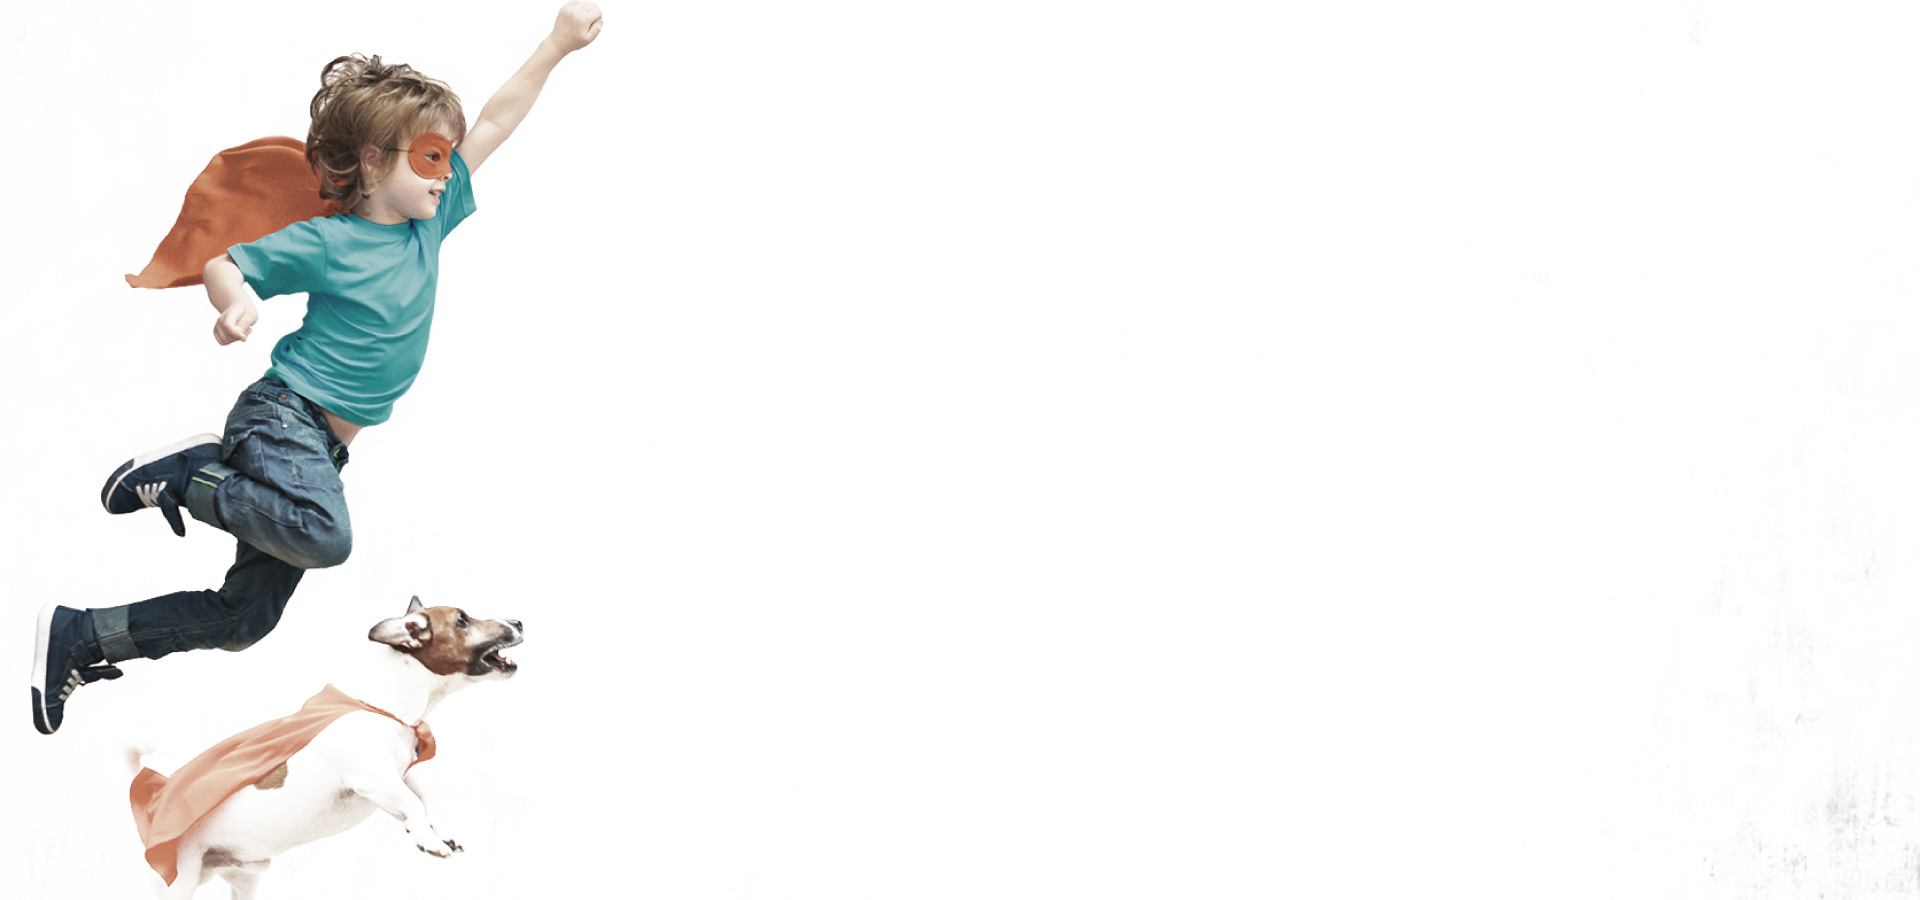
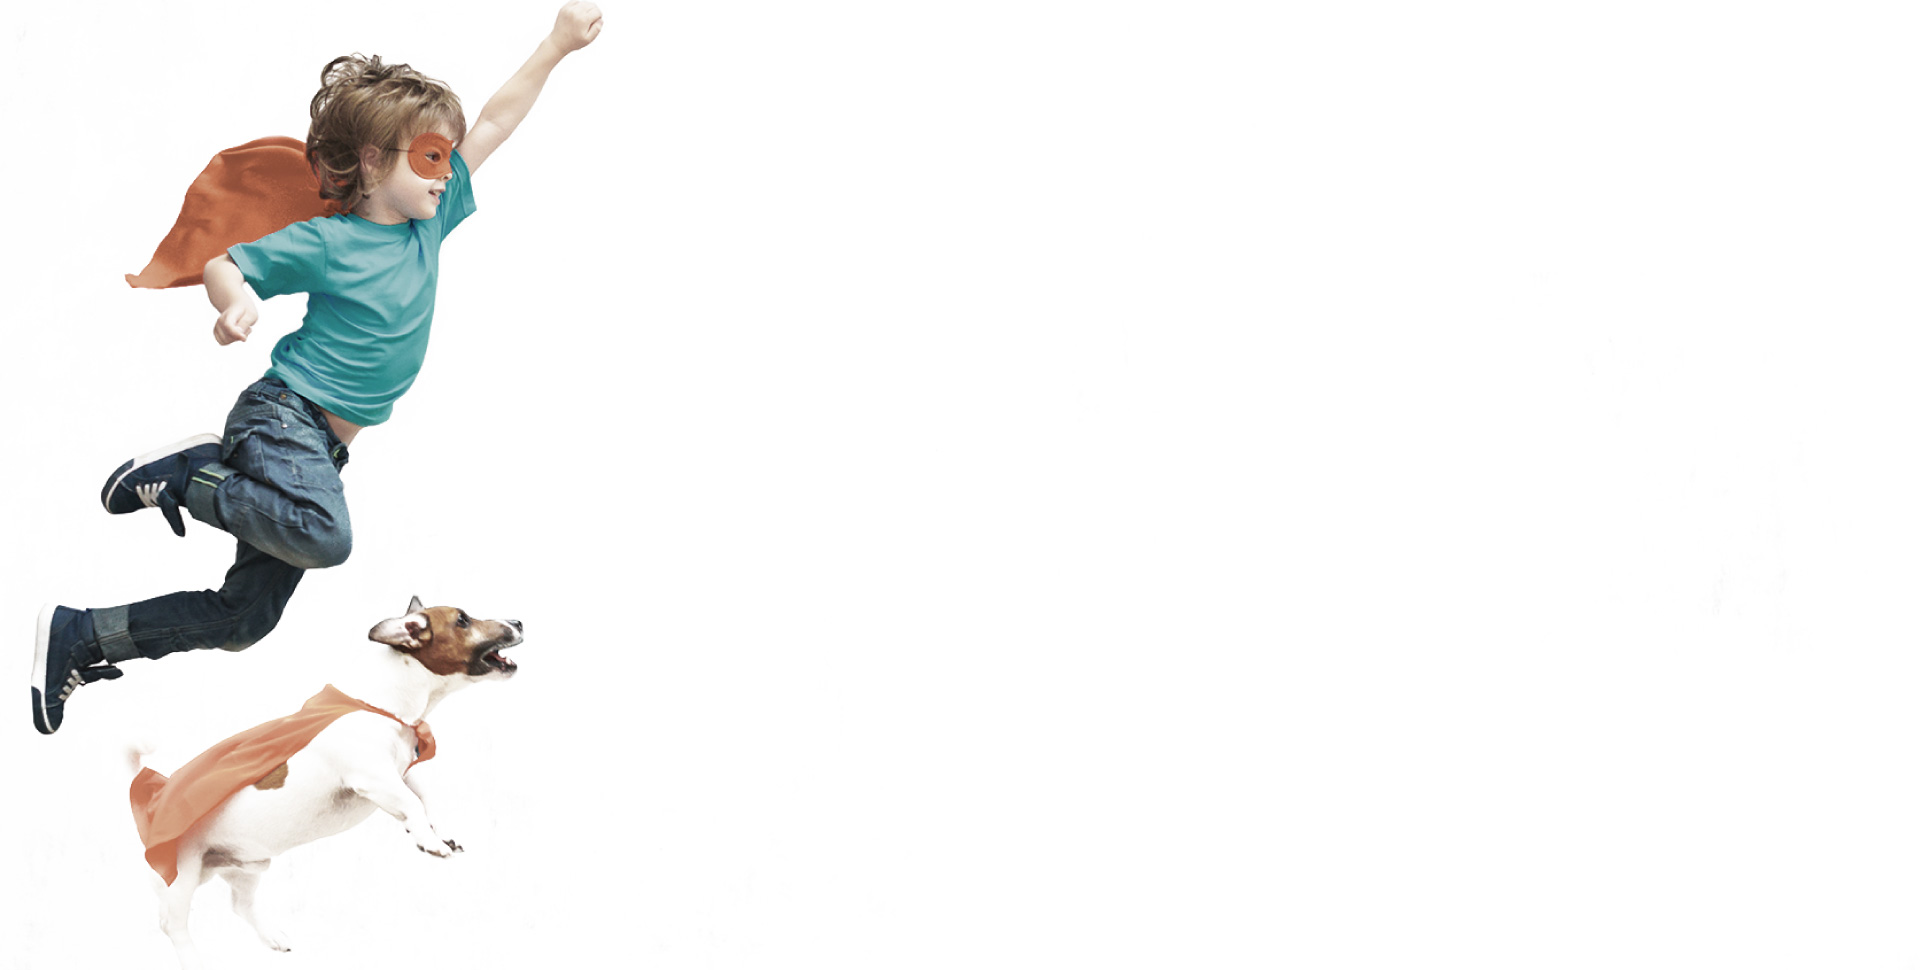
Homepage - Implement video and homepage scrolling

Changed region(s): [[0.0, 0.0622, 0.2812, 1.0], [0.2812, 0.0311, 0.3125, 0.0622], [0.2188, 0.9333, 0.25, 0.9644]]

diff --git a/home/templates/home/index.html b/home/templates/home/index.html
@@ -29,7 +29,7 @@
 					'scrollTop': $target.offset().top
 				}, 900, 'swing', function (){
 					window.location.hash = target;
-				})
+				})				
 			})
     });
 </script>
@@ -95,7 +95,13 @@
 				</div>
 </div>
 
-	<div class="container-fluid elevPitch1">
+	<div class="container-fluid elevPitch1" id="icons">
+		<div class="row downArrow">
+			<div class="col-sm-2 text-center">&nbsp;</div>
+			<div class="col-sm-8 text-center"><a href="#icons"><img src="{{ STATIC_URL }}home/pics/btn_down.png" alt="Logo" width="30" height="20"></a></div>
+			<div class="col-sm-2 text-center">&nbsp;</div>
+		</div>
+		
   <div class="row">
     <div class="col-sm-2 text-center">&nbsp;</div>
 		<div class="col-sm-8 text-center">
@@ -111,7 +117,8 @@
 
 <br />
 
-	<div class="container-fluid elevPitch2" id="billing">
+<div class="container-fluid elevPitch2" id="billing">
+	<!-- <div class="row backToTop" style="text-align:center;"><a href="#myPage">Back to top</a></div> -->
   <div class="row">
     <div class="col-sm-2 text-center">&nbsp;</div>
 		<div class="col-sm-8 text-center">
@@ -122,10 +129,18 @@
 		<div class="col-sm-2 text-center">&nbsp;</div>
   </div>
 </div>
-	
+
+<div class="container-fluid elevPitch4">
+	<div class="col-sm-2 text-center"></div>
+	<div class="col-sm-8 text-center video-container">
+	<iframe width="640" height="360" src="https://www.youtube.com/embed/4gk2jr9bYQE" frameborder="0" allow="autoplay; encrypted-media" allowfullscreen></iframe>
+</div>
+<div class="col-sm-2 text-center"></div>
 </div>
 
-	<div class="container-fluid elevPitch3">
+
+
+<div class="container-fluid elevPitch3">
   <div class="row">
     <div class="col-sm-6 text-center"><img src="{{ STATIC_URL }}home/pics/headshot_diane.png" alt="Logo" width="180" height="180"></div>
 		<div class="col-sm-5 text-center testimonialDiv">
@@ -137,6 +152,7 @@
 
 
 <div class="container-fluid elevPitch2" id="invoices">
+	<!-- <div class="row backToTop" style="text-align:center;"><a href="#myPage">Back to top</a></div> -->
 	<div class="row">
 	  <div class="col-sm-2 text-center">&nbsp;</div>
 		<div class="col-sm-8 text-center">
@@ -162,6 +178,7 @@
 
 
 <div class="container-fluid elevPitch2" id="payments">
+	<!-- <div class="row backToTop" style="text-align:center;"><a href="#myPage">Back to top</a></div> -->
 	<div class="row">
 	  <div class="col-sm-2 text-center">&nbsp;</div>
 		<div class="col-sm-8 text-center">
@@ -174,15 +191,20 @@
 </div>
 
 <div class="container-fluid final">
-				<div class="row">
-					<div class="col-sm-1 text-center">&nbsp;</div>
-					<div class="col-sm-10 text-center">
-						<a href="/login/signup" class="btn">Get started</a>
-						<br><br>
-						<span style="color:#70ABA7;">It's Free</span>
-					</div>
-					<div class="col-sm-1 text-center">&nbsp;</div>
+	<div class="row">
+		<div class="col-sm-1 text-center">&nbsp;</div>
+		<div class="col-sm-10 text-center">
+			<a href="/login/signup" class="btn">Get started</a>
+			<br><br>
+			<span style="color:#70ABA7;">It's Free</span>
+		</div>
+		<div class="col-sm-1 text-center">&nbsp;</div>
 </div>
+	<div class="row text-center" style="top:100px; position: relative;">
+		<div class="col-sm-12 text-center">
+		    <a href="#myPage" title="To Top"><span class="glyphicon glyphicon-chevron-up"></span></a>
+		</div>
+	</div>
 </div>
 
 

diff --git a/home/static/home/style.css b/home/static/home/style.css
@@ -17,7 +17,9 @@ body#myPage {
 		margin-bottom: 0px !important;
 		background-attachment:fixed;
 		background-position:left 50px;
-		background-size:cover;
+/*		background-size:cover;*/
+		min-height:500px;
+		height:90vh;
 }
 
 .jumbotron .btn, .final .btn {
@@ -51,31 +53,60 @@ body#myPage {
   text-decoration: none;
 }
 
+.downArrow {
+  margin-bottom: 100px;
+  margin-top: -50px;
+}
+
+.backToTop {
+  text-align: center;
+  margin: -75px auto 75px;
+}
+
 .final {
 	margin-bottom:100px;
 }
 
-.elevPitch1 {
+.elevPitch1, .elevPitch2, .elevPitch3, .elevPitch4 {
 	margin:0 auto;
 	padding: 75px 0 150px 0;
+}
+
+.elevPitch1 {
 	background:#70ABA7;
 }
 
 .elevPitch2 {
-	margin:0 auto;
-	padding: 75px 0;
 	background:#ffffff;
 }
 
 .elevPitch3 {
-	margin:0 auto;
-	padding: 75px 0;
 	background:#f1f1f1;
 }
 
+.elevPitch4 {
+	background:#F6921E;
+}
+
+/*.video-container {
+position: relative;
+padding-bottom: 56.25%;
+padding-top: 30px; height: 0; overflow: hidden;
+}
+
+.video-container iframe,
+.video-container object,
+.video-container embed {
+position: absolute;
+top: 0;
+left: 0;
+width: 100%;
+height: 100%;
+}
+*/
+
 .elevPitch3 .testimonialDiv
 {
-	/*background: url("./pics/testimonial_quotes.png") no-repeat top left;*/
   background-image: url("./pics/testimonial_beginquote.png"), url("./pics/testimonial_endquote.png");
   background-position: left top, right bottom;
   background-repeat: no-repeat, no-repeat;
@@ -195,6 +226,22 @@ a.logoLink:hover {
 }
 */
 @media screen and (max-width: 500px) {
+	.video-container {
+	position: relative;
+	padding-bottom: 56.25%;
+	padding-top: 30px; height: 0; overflow: hidden;
+	}
+
+	.video-container iframe,
+	.video-container object,
+	.video-container embed {
+	position: absolute;
+	top: 0;
+	left: 0;
+	width: 100%;
+	height: 100%;
+	}
+	
 	.elevIconCont {
 		margin:0 50px;
 	}
@@ -216,6 +263,7 @@ a.logoLink:hover {
 		.jumbotron, .homePitch2 {
 			padding:55px 10px 0 10px;
 			background:#ffffff no-repeat center 50px;
+			height:60vh	;
 		}
 		.jumbotron .btn, .final .btn {
 	    margin: 0 auto 30px;

diff --git a/home/static/home/footer.html b/home/static/home/footer.html
@@ -1,12 +1,5 @@
 <!-- footer section -->
 <footer class="container-fluid text-center">
-    <br/>
-    <div class
-    "row text-center">
-    <div class="col-sm-12 text-center">
-        <a href="#myPage" title="To Top"><span class="glyphicon glyphicon-chevron-up"></span></a>
-    </div>
-    </div>
     <div class
     "row text-center">
     <div class="col-sm-3 text-center">
